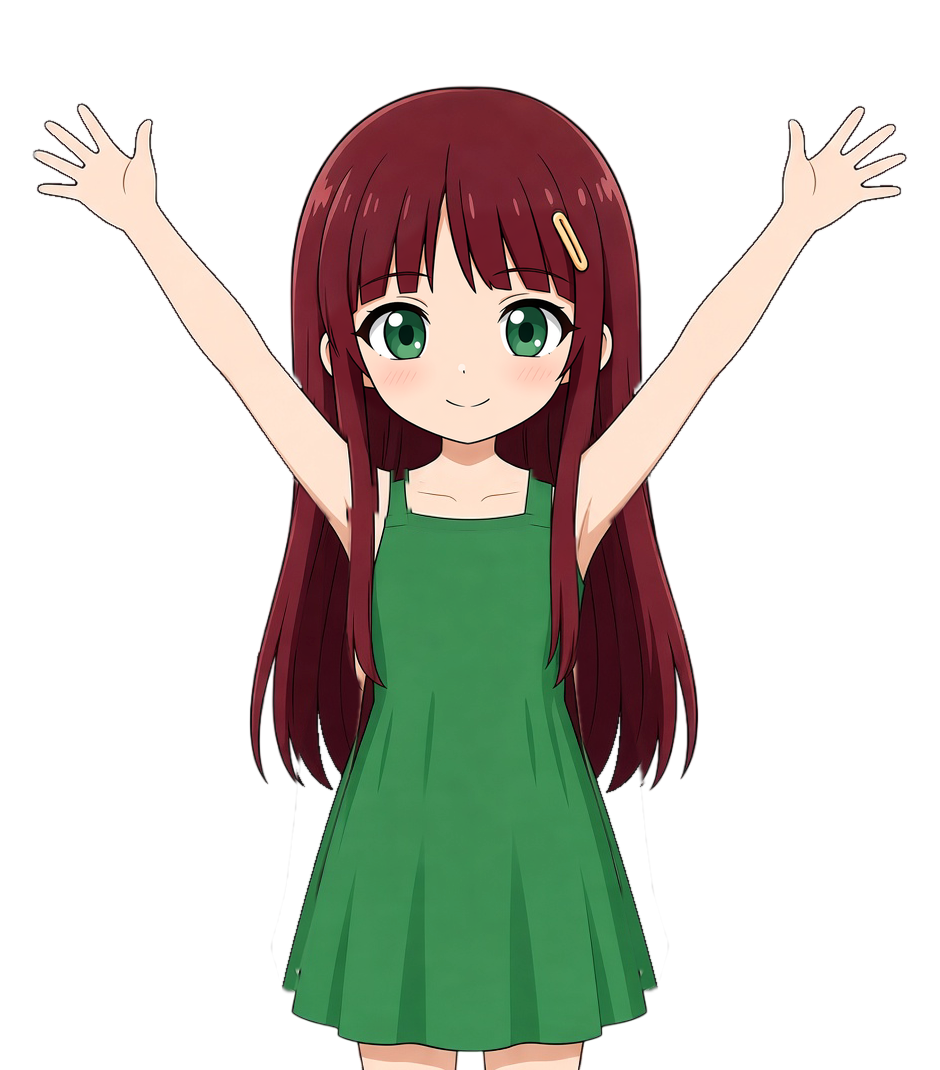
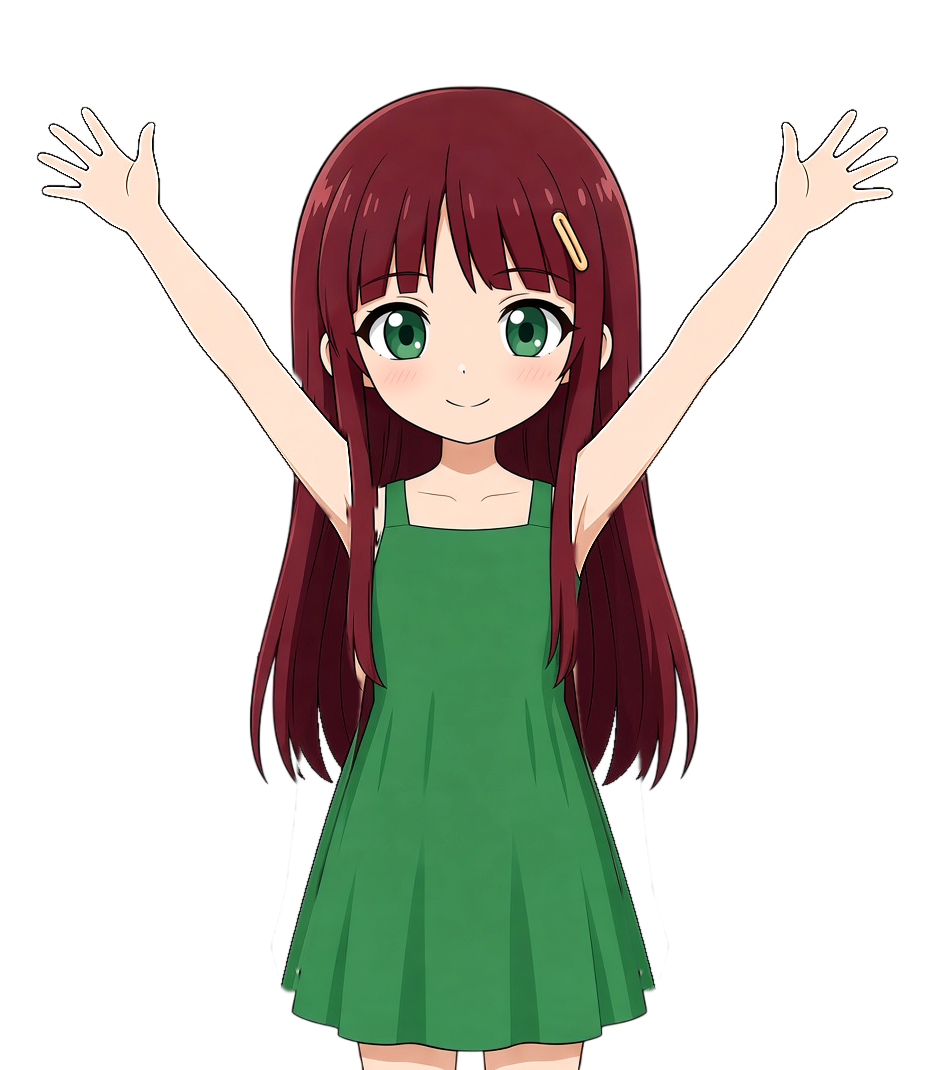
Risa (dress): sharper cheers (unresampled, lightly sharpened), and the neck of cheer-2 kept from the happy picture
Claude-Session: https://claude.ai/code/session_0155kJB6hiDhEvSihPBsHK36

diff --git a/docs/frame-packs.md b/docs/frame-packs.md
@@ -112,7 +112,7 @@ not settled about AI-made pictures). It was made the same way as the Miku pack, 
 background, hair to hem so that raised arms fit), with the prompts and `python/finish_pack.py` run as
 `--white --mouth-diff --cheek 0.42,0.37 --face-box 0.34,0.2,0.66,0.43 --seam 0.36 --mouth-box 0.43,0.35,0.55,0.42`. `--face-box` keeps the
 neck and arms out of the face search for a taller crop, and `--mouth-diff` pastes only what changed, which stops a wide-open
-mouth near the chin leaving a smear. The pictures are lossless WebP at full size (940 × 1070, about 11 MB for all 39; the PNGs they were made from were 16.5 MB, and the pixels are identical, transparent areas included). Its wave and cheer are two pictures each, edited from the happy picture and made as full-body pictures with a transparent background, then cropped like the base; `finish_pack.py` takes only the skin that appeared or went away from the edit (`wave-1` and the like; `--pose-face` names the picture they came from, `--pose-align body` lines an edit up on her body instead of her head) and leaves everything else, hair and dress included, as in the happy picture.
+mouth near the chin leaving a smear. The pictures are lossless WebP at full size (940 × 1070, about 11 MB for all 39; the PNGs they were made from were 16.5 MB, and the pixels are identical, transparent areas included). Its wave and cheer are two pictures each, edited from the happy picture and made as full-body pictures with a transparent background, then cropped like the base; `finish_pack.py` takes only the skin that appeared or went away from the edit (`wave-1` and the like; `--pose-face` names the picture they came from, `--pose-align body` lines an edit up on her body instead of her head, `--pose-scale 1` keeps its pixels unresampled and so sharp, `--pose-sharpen` softens less, `--pose-keep` keeps a part such as the neck from the base picture when no arm touches it; `pose-mask-<name>.png` shows what was taken from the edit) and leaves everything else, hair and dress included, as in the happy picture.
 
 ## The Miku pack
 
